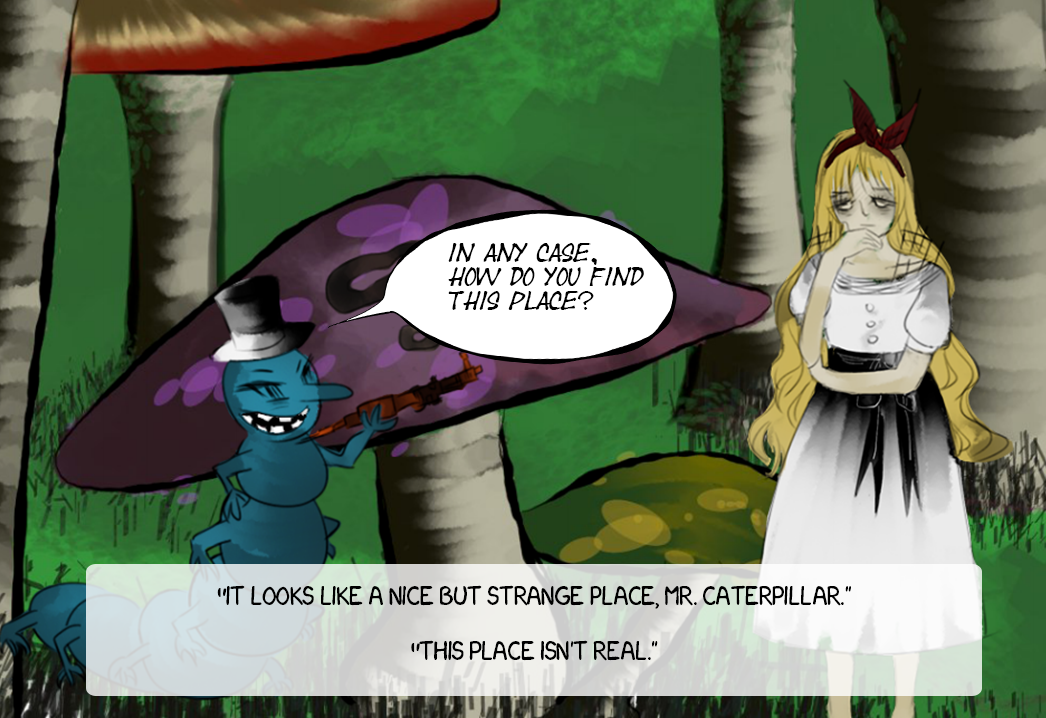
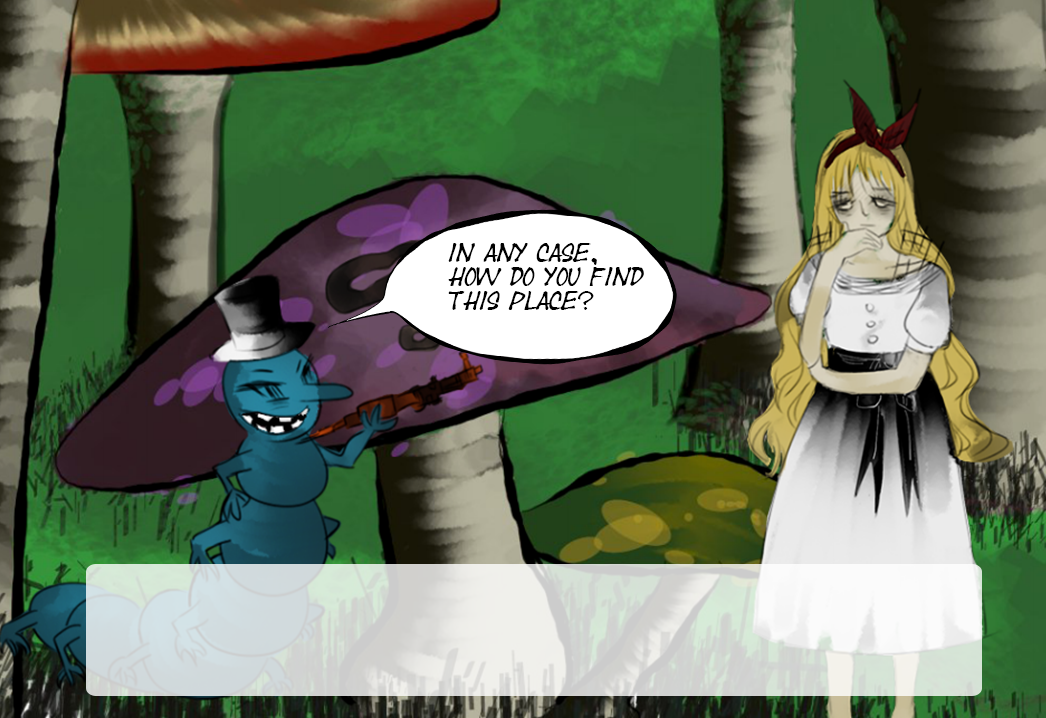
till panel 17

Changed region(s): [[0.2141, 0.7967, 0.7954, 0.8579], [0.3977, 0.8886, 0.6119, 0.9192]]

diff --git a/alice_16.html b/alice_16.html
@@ -13,7 +13,19 @@
 <body>
 	<div id="container" style="text-align:center">
 		<h1 class="title">- Alice In Wonderland -</h1>
-		<a href="alice_17.html"><img src="images/16.png" style="width:70%"></a>
+		<img src="images/16.png" style="width:70%">
+		<div id="responses">
+			<p class="response-1">"IT LOOKS LIKE A NICE BUT STRANGE PLACE, MR.CATERPILLAR."</p>
+			<p class="response-2">"THIS PLACE ISN'T REAL."</p>
+		</div>
 	</div>
 </body>
+<script type="text/javascript">
+	$(".response-1").click(function() {
+		chooseOption(0, 17);
+	});
+	$(".response-2").click(function() {
+		chooseOption(0, 17);
+	});
+</script>
 </html>

diff --git a/alice_14.html b/alice_14.html
@@ -20,7 +20,6 @@
 		</div>
 	</div>
 </body>
-
 <script type="text/javascript">
 	$(".response-1").click(function() {
 		chooseOption(0, 15);
